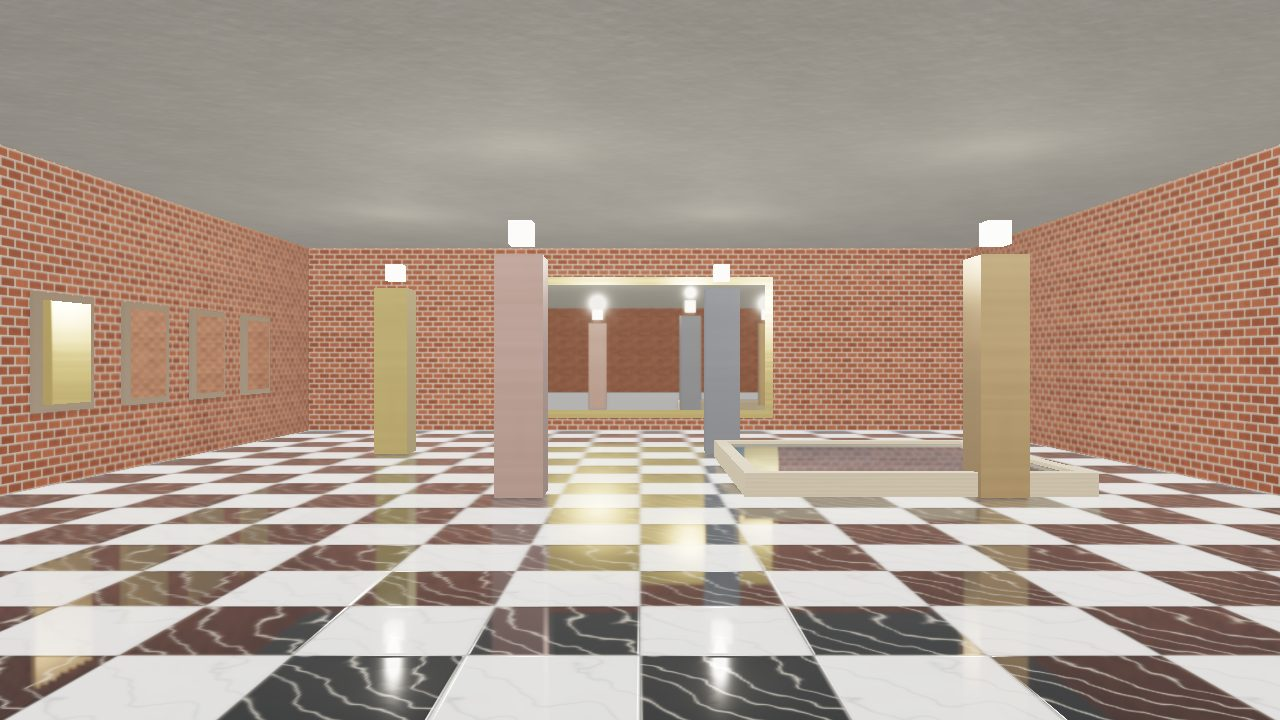
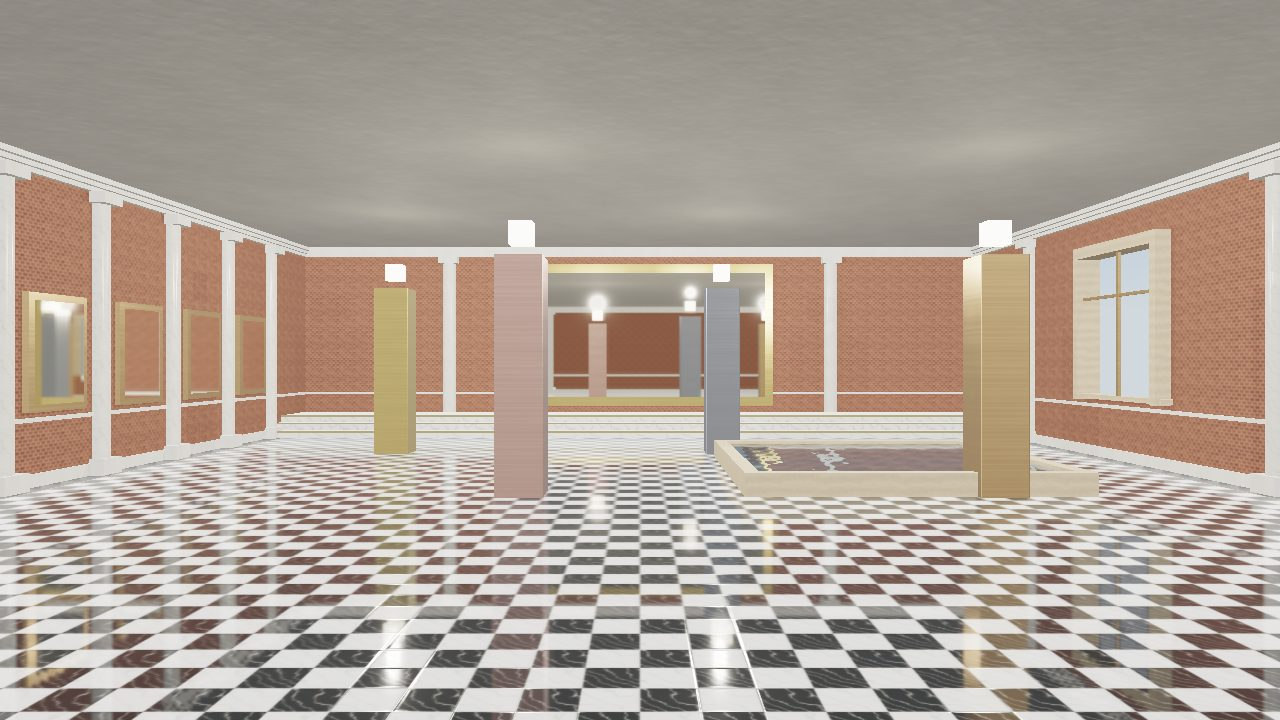
DOCS The oglc-mirrors picture shows the new hall; placed() is documented
The demo picture is drawn again from the hall with half columns, moldings,
windows, the dais and the bordered floor, and its alt text and caption say
what it shows. The surfaces page gains placed(), and says why scenery built
of many pieces is merged by material.

diff --git a/docs/surfaces.rst b/docs/surfaces.rst
@@ -160,6 +160,10 @@ along. Triangles wind counter-clockwise seen from the side the normals face.
        ``math.pi`` is a half column with its flat back on the plane z = 0.
    * - ``moved(geometry, offset)``
      - ``geometry`` shifted by ``offset`` metres.
+   * - ``placed(geometry, translation, rotation)``
+     - ``geometry`` turned and moved into its parent's space, as a
+       ``Transform`` with that translation and rotation would place it; its
+       normals and tangents turn with it.
    * - ``merge(parts)``
      - One mesh of several, for one shape.
    * - ``shape(geometry, material, translation=(0, 0, 0), rotation=(0, 1, 0, 0))``
@@ -182,9 +186,12 @@ where it sits on the wall, so the courses of brick run straight across:
        scene.append(surfaces.shape(panel, brick,
                                    ((left + right) / 2, (bottom + top) / 2, 0.0)))
 
-``merge`` makes several pieces one shape, which matters for a mirror: pieces
-in one plane that share a material are then one mesh. The four strips of a
-floor's border, for example:
+``merge`` makes several pieces one shape. Each shape costs a draw in every
+view that sees it, so scenery built from many small pieces -- moldings, column
+bases, window surrounds -- is best placed with ``placed`` and merged by
+material, as the hall of ``oglc-mirrors`` merges each wall's pieces. For a
+mirror, pieces in one plane that share a material are then one mesh. The four
+strips of a floor's border, for example:
 
 .. code-block:: python
 

diff --git a/docs/reflections.rst b/docs/reflections.rst
@@ -10,10 +10,11 @@ the sky. Marking a surface is how an application opts into the cost, and each
 mirror says how much it is worth, so a level can hold a dozen of them.
 
 .. figure:: images/demos/mirrors_demo.jpg
-   :alt: A hall with a polished dark floor reflecting four coloured columns and the lamps over them, a large mirror on the far wall showing the room behind the viewer, small mirrors down the left wall, and a pool in a stone rim
+   :alt: A hall of red brick broken by pale half columns and white moldings, a checkered marble floor reflecting gold, copper and steel columns, a gilt-framed mirror over marble steps at the far end, a corridor of small framed mirrors down the left wall, a tall window onto a blue sky on the right, and a stone-rimmed pool
 
-   ``oglc-mirrors``: a floor, a wall mirror, a corridor of small mirrors and a
-   pool, each reflecting the room. See :ref:`reflections-demo`.
+   ``oglc-mirrors``: a polished floor, a mirror over the dais, a corridor of
+   mirrors sharing one reflector, and a rippling pool, each reflecting the
+   room. See :ref:`reflections-demo`.
 
 .. code-block:: python
 
